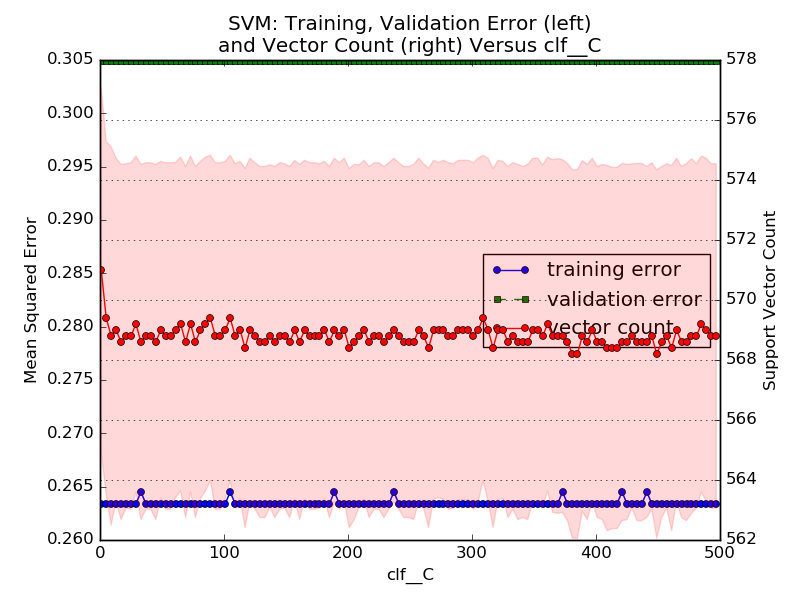
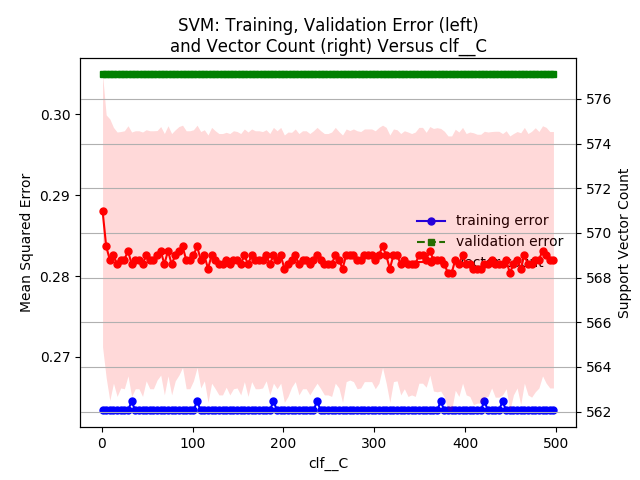
adding grid search

diff --git a/Assignment1/validation_curves_svm.py b/Assignment1/validation_curves_svm.py
@@ -4,17 +4,18 @@ from sklearn.metrics import mean_squared_error
 from sklearn.preprocessing import Imputer, LabelEncoder
 from sklearn.model_selection import train_test_split
 from sklearn.tree import DecisionTreeClassifier, export_graphviz
-from sklearn.model_selection import StratifiedKFold
 from sklearn.svm import SVC
-from sklearn.model_selection import StratifiedKFold
+from sklearn.model_selection import StratifiedKFold, GridSearchCV
 from sklearn.pipeline import Pipeline
 from sklearn.preprocessing import MinMaxScaler, StandardScaler, OneHotEncoder, Imputer
+from sklearn.metrics import classification_report
 
 import matplotlib
-matplotlib.use('Agg')
+#matplotlib.use('Agg')
 import matplotlib.pyplot as plt
 import numpy as np
 import pandas as pd
+from timeit import default_timer as timer
 
 class validation_curves:
     def __init__(self):
@@ -51,8 +52,8 @@ class validation_curves:
         #df.plot.scatter(x='quality', y='phSugarRatioStd')
         
         # group the quality into binary good or bad
-        df.loc[(df['quality'] >= 0) & (df['quality'] <= 5), 'quality'] = 0
-        df.loc[(df['quality'] >= 6), 'quality'] = 1
+        df.loc[(df['quality'] >= 0) & (df['quality'] <= 5), 'quality'] = 0.
+        df.loc[(df['quality'] >= 6), 'quality'] = 1.
         
         # separate the x and y data
         # y = quality, x = features (using fixed acid, volatile acid and alcohol)
@@ -90,24 +91,96 @@ class validation_curves:
 
         return X_train, X_test, y_train, y_test
     
+    
+    def gridSearch2(self):
+        X_train, X_test, y_train, y_test =  self.loadWineData()
+
+        pipeline = Pipeline([('scl', StandardScaler()),
+                             ('clf', SVC(random_state=0))])
+
+        parameters = {'clf__kernel': ('rbf', 'poly', 'linear'),
+                      #'clf__max_iter': np.arange(0., 500., 100.),
+                      'clf__gamma': np.arange(1., 50., 5.),
+                      'clf__tol': np.arange(0.000001, 2.0, 0.5) }
+        
+        grid_search = GridSearchCV(pipeline, parameters, n_jobs=-1, verbose=1)
+        
+        print("Performing grid search...")
+        print("pipeline:", [name for name, _ in pipeline.steps])
+        print("parameters:")
+        print(parameters)
+        t0 = timer()
+        grid_search.fit(X_train, y_train)
+        print("done in %0.3fs" % (timer() - t0))
+        print()
+    
+        print("Best score: %0.3f" % grid_search.best_score_)
+        print("Best parameters set:")
+        best_parameters = grid_search.best_estimator_.get_params()
+        for param_name in sorted(parameters.keys()):
+            print("\t%s: %r" % (param_name, best_parameters[param_name]))
+            
+    def gridSearch(self):
+        X_train, X_test, y_train, y_test =  self.loadWineData()
+        
+        tuned_parameters = [{'kernel': ['rbf'], 'gamma': [1e-3, 1e-4],
+                     'C': [1, 10, 100, 1000]},
+                    {'kernel': ['linear'], 'C': [1, 10, 100, 1000]}]
+
+        scores = ['precision', 'recall']
+        
+        for score in scores:
+            print("# Tuning hyper-parameters for %s" % score)
+            print()
+        
+            clf = GridSearchCV(SVC(C=1), tuned_parameters, cv=5,
+                               scoring='%s_weighted' % score)
+            clf.fit(X_train, y_train)
+        
+            print("Best parameters set found on development set:")
+            print()
+            print(clf.best_params_)
+            print()
+            print("Grid scores on development set:")
+            print()
+            for params, mean_score, scores in clf.grid_scores_:
+                print("%0.3f (+/-%0.03f) for %r"
+                      % (mean_score, scores.std() * 2, params))
+            print()
+        
+            print("Detailed classification report:")
+            print()
+            print("The model is trained on the full development set.")
+            print("The scores are computed on the full evaluation set.")
+            print()
+            y_true, y_pred = y_test, clf.predict(X_test)
+            print(classification_report(y_true, y_pred))
+            print()
+            
+        
+        
+        
     def run(self):
         
         X_train, X_test, y_train, y_test =  self.loadWineData()
 
         kernels =['rbf', 'poly', 'linear', 'sigmoid'] 
+        kernels =['linear'] 
+        
         params_dict_rbf = {'clf__C': np.arange(1, 500, 4),
                            'clf__max_iter': np.arange(0, 500, 2),
                            'clf__gamma': np.arange(1, 50, 1),
                            'clf__tol': np.arange(0.000001, 2.0, 0.005)}
         
-        params_dict_poly = {'clf__C': np.arange(1, 500, 4),
-                            'clf__max_iter': np.arange(0, 500, 2),
-                            'clf__gamma': np.arange(1, 3, 1),
-                            'clf__tol': np.arange(0.000001, 2.0, 0.005)}
+        params_dict_poly = {'clf__degree': np.arange(0, 15, 1)}
+        
+        params_dict_linear = {'clf__max_iter': np.arange(1, 1000, (1000 - 1) / 200),
+                              'clf__tol': np.arange(0.000001, 1.9, (1.9 - 0.000001) / 200)
+                              }
         
         param_dict_by_kernel = {'rbf': params_dict_rbf,
                                 'poly': params_dict_poly,
-                                'linear': params_dict_poly,
+                                'linear': params_dict_linear,
                                 'sigmoid': params_dict_poly}       
         
         #params_dict = {'clf__degree': np.arange(0, 15, 1)}
@@ -259,7 +332,9 @@ class validation_curves:
                 
 if __name__ == "__main__":
     vc = validation_curves()
-    vc.run()
+    vc.gridSearch2()
+    
+    #vc.run()
               
         
         
